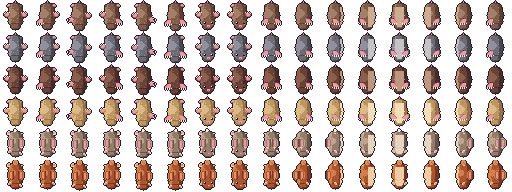
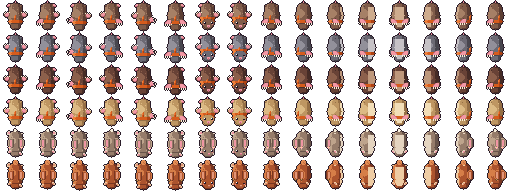
파 내려가기 그림의 Naïl에 주황 목도리(0206)
땅 단면 전환에서 위에서 본 뒷모습 Naïl이 옛 모습(목도리 없음)이었다. 목에 세 줄 띠와 등 위로
늘어진 끝자락을 둘러 새 옷과 맞춘다. 돌 때 끝자락은 몸통을 따라 돈다. 털빛 셋도 같이.

Claude-Session: https://claude.ai/code/session_01VNXEyeHwdhsn4oiHYXtNpM

diff --git a/tools/art/dig.py b/tools/art/dig.py
@@ -25,6 +25,8 @@ NAIL = {
     'o': (43, 29, 42), 'd': (92, 62, 52), 'b': (128, 92, 74), 'h': (166, 128, 102), 'l': (206, 172, 142),
     'p': (242, 152, 164), 'q': (200, 104, 124), 'c': (248, 238, 216), 'C': (206, 190, 164),
     'e': (26, 16, 32), 'w': (255, 255, 255), 'r': (236, 132, 132),
+    # 주황 목도리(0206 새 옷: 게임 스프라이트와 같은 색)
+    'j': (238, 128, 60), 'k': (214, 92, 29), 'K': (174, 66, 19),
 }
 MOMO = {
     'o': (43, 29, 42), 'd': (104, 84, 74), 'b': (150, 124, 106), 'h': (190, 164, 140), 'l': (228, 212, 192),
@@ -147,6 +149,24 @@ def attach_x(ells, y, width, side, overlap=1):
     return xs[0] - width + overlap if side == 'L' else xs[-1] + 1 - overlap
 
 
+def scarf(g, y, tail=None):
+    """목(y−1~y+1, 세 줄 — 게임 스프라이트처럼 몸의 5분의 1쯤)을 두른 주황 목도리(0206 새 옷). 몸통 털(bhdl)만 칠해 앞발은 위에 남는다. 몸통 폭의 왼쪽은 밝게,
+    오른쪽은 그늘로(원통). tail = (x, 위 끝 y): 등 위로 늘어진 끝자락 — 뒷모습에서 목도리가 보이는 자리."""
+    for yy in (y - 1, y, y + 1):
+        xs = [x for x in range(S) if g[yy][x] in 'bhdl']
+        if not xs:
+            continue
+        x0, x1 = xs[0], xs[-1]
+        for x in xs:
+            t = (x - x0 + 0.5) / (x1 - x0 + 1)
+            g[yy][x] = 'j' if t < 0.22 else 'K' if t > 0.74 else 'k'
+    if tail:
+        put(g, tail[0], tail[1], SCARF_TAIL)
+
+
+SCARF_TAIL = [".k", "jk", "jk", "kK", "kK"]
+
+
 def outline(g):
     out = [r[:] for r in g]
     for y in range(S):
@@ -203,6 +223,7 @@ def nail_frame(i):
     ell = [(cx, cy + dy * (k >= 2), rx, ry) for k, (cx, cy, rx, ry) in enumerate(NAIL_BODY)]
     g = back(ell, [(x, y + dy * (y > 14)) for x, y in NAIL_GRAIN], hump=(12.5, 13.5, 4.2))
     head_shade(g, 23 + dy)
+    scarf(g, 21 + dy, tail=(14, 15 + dy))
     put(g, 15, 1, TAIL)
     up_left = i % 2 == 0
     for side in ('L', 'R'):
@@ -242,6 +263,7 @@ def nail_look(wink):
     g = nail_frame(0)
     # outline()을 거친 뒤라 외곽선 포함. 머리를 다시 얹고 외곽선을 다시 두른다.
     g = [[ch if ch != 'o' else '.' for ch in row] for row in g]
+    scarf(g, 18)      # 고개를 들면 목은 머리 바로 위
     put(g, 9, 19, LOOK_HEAD)
     if wink:
         put(g, 19, 22, WINK)
@@ -253,6 +275,8 @@ def nail_spin(k):
     phase = k / 8 * 2 * math.pi
     g = back(NAIL_BODY, NAIL_GRAIN, hump=(12.5, 13.5, 4.2), phase=phase, belly=1.4)
     head_shade(g, 23)
+    tx = spin_x(NAIL_BODY, 19, -0.3, phase, 2)      # 끝자락은 등 가운데 조금 왼쪽에 붙어 함께 돈다
+    scarf(g, 21, tail=None if tx is None else (tx, 15))
     put(g, 15, 1, TAIL)
     for am, rows in ((-math.pi / 2, PAW_DOWN), (math.pi / 2, flip(PAW_DOWN))):
         x = spin_x(NAIL_BODY, 20, am, phase, len(rows[0]))

diff --git a/docs/phase-1-combat-prototype.md b/docs/phase-1-combat-prototype.md
@@ -179,7 +179,7 @@
 - [x] C2. 도구 `pxl.py snap`(0203 "C2 구현"): 나노바나나 시트 → 그림 찾기·블록 크기·어긋남 → 16칸 `.pxl` + 한 줄 검사, 왕복 시험 `tools/pixel/test_snap.py`
 - [x] B4. 도토 이야기(0201): 씨앗을 찾지만 묻지는 않는 엔딩, 포포 배웅·빈 자리·마을 한마디 — 사장 "너의 각색으로". B5 안내 "도토로 싸우기"(그림)
 - [ ] B2·B3. 도토 손맛·성장(0195, 개발판): 개발 → "도토: 아레나"로 던지기·큰 도토리·뒤로 뛰기·묻기, 마을 뿌리 길 고르기 창 셋 칸, 큰 나무 도토 탭, 도토 장신구 셋(솔방울·깍정이 모자·단풍잎 목도리)의 맞바꿈. 도토 엔딩은 0201(제안)
-- [x] C3. **Naïl 새 옷**(0206, 사장 "좋아 이걸로 하자"): 실루엣 시안 1 몸 + 둥근 시트의 눈·볼(`nail_s1_v2`) + 동작 시트 B(`nail_s1_v2_b`), 몸 16px·칸 24, 분홍 손발, 걷기 앞발 흔들기(위아래 + 얼굴과 선), 숨쉬기 두 칸은 한 그림에서. 남은 것: 파 내려가기 그림 `dig.py`(옛 모습)
+- [x] C3. **Naïl 새 옷**(0206, 사장 "좋아 이걸로 하자"): 실루엣 시안 1 몸 + 둥근 시트의 눈·볼(`nail_s1_v2`) + 동작 시트 B(`nail_s1_v2_b`), 몸 16px·칸 24, 분홍 손발, 걷기 앞발 흔들기(위아래 + 얼굴과 선), 숨쉬기 두 칸은 한 그림에서. 파 내려가기 그림(`dig.py`)도 목도리를 둘렀다
 - [ ] C3. 모모·도토 스프라이트 — Naïl과 같은 길(실루엣 시험 → 몸 → 얼굴 → 동작 시트)
 - [ ] C4. 잡몹 열·보스 다섯·이웃
 - [ ] **박자 2타·부술 것 표시**(0205): 보통으로 톡 눌러 박자에 2타·3타가 이어지는지(무기마다), 굴에서 부술 것(흙더미·뿌리혹·돌무더기·실뭉치)이 외곽선·금·반짝으로 바로 보이는지

diff --git a/docs/decisions/0206-nail-sprite-silhouette-first.md b/docs/decisions/0206-nail-sprite-silhouette-first.md
@@ -70,6 +70,9 @@
   - 손발이 아닌 검은 점(머리 둘레·옆구리 그늘)이 외곽선에 붙어 선이 두 겹으로 굵어 보였다 → `paws`가 그 점을 짙은 털(`SHADE`)로.
   - 원본의 서기 두 칸은 따로 그린 그림이라 머리 모양·손 자리가 달랐다 → 둘째 칸은 첫 칸에서 만든다(`breathe`: 아랫몸에서 바로 아래 줄과 가장 닮은 줄 하나를 빼 1px 낮춤, 눈·코·발은 그대로). 원본의 둘째 서기 칸은 쓰지 않는다.
 
+## 파 내려가기 그림(2026-10-28)
+- 땅 단면 전환의 Naïl(`dig.py`, 위에서 본 뒷모습 32칸)에 새 옷의 주황 목도리를 둘렀다: 목(머리 주름 위 세 줄)에 띠 + 등 위로 늘어진 끝자락(뒷모습에서 목도리가 보이는 자리). 돌 때는 끝자락이 몸통을 따라 돌고 뒤로 가면 가려진다. 손발은 처음부터 분홍 + 크림 발톱이라 그대로.
+
 ## 아직
-- 사이트 걷는 띠(`make_images.py` `SPRITES`는 16칸 — v0.5 배포 때), 파 내려가기 그림(`dig.py`, 옛 모습).
+- 사이트 걷는 띠(`make_images.py` `SPRITES`는 16칸 — v0.5 배포 때), 
 - 게임 코드의 32칸(그리기·파고들기 가라앉기·드릴 잔상·안내 그림·사이트 걷는 띠), 파 내려가기 그림(`dig.py`), 모모·도토도 같은 크기·같은 길로.
